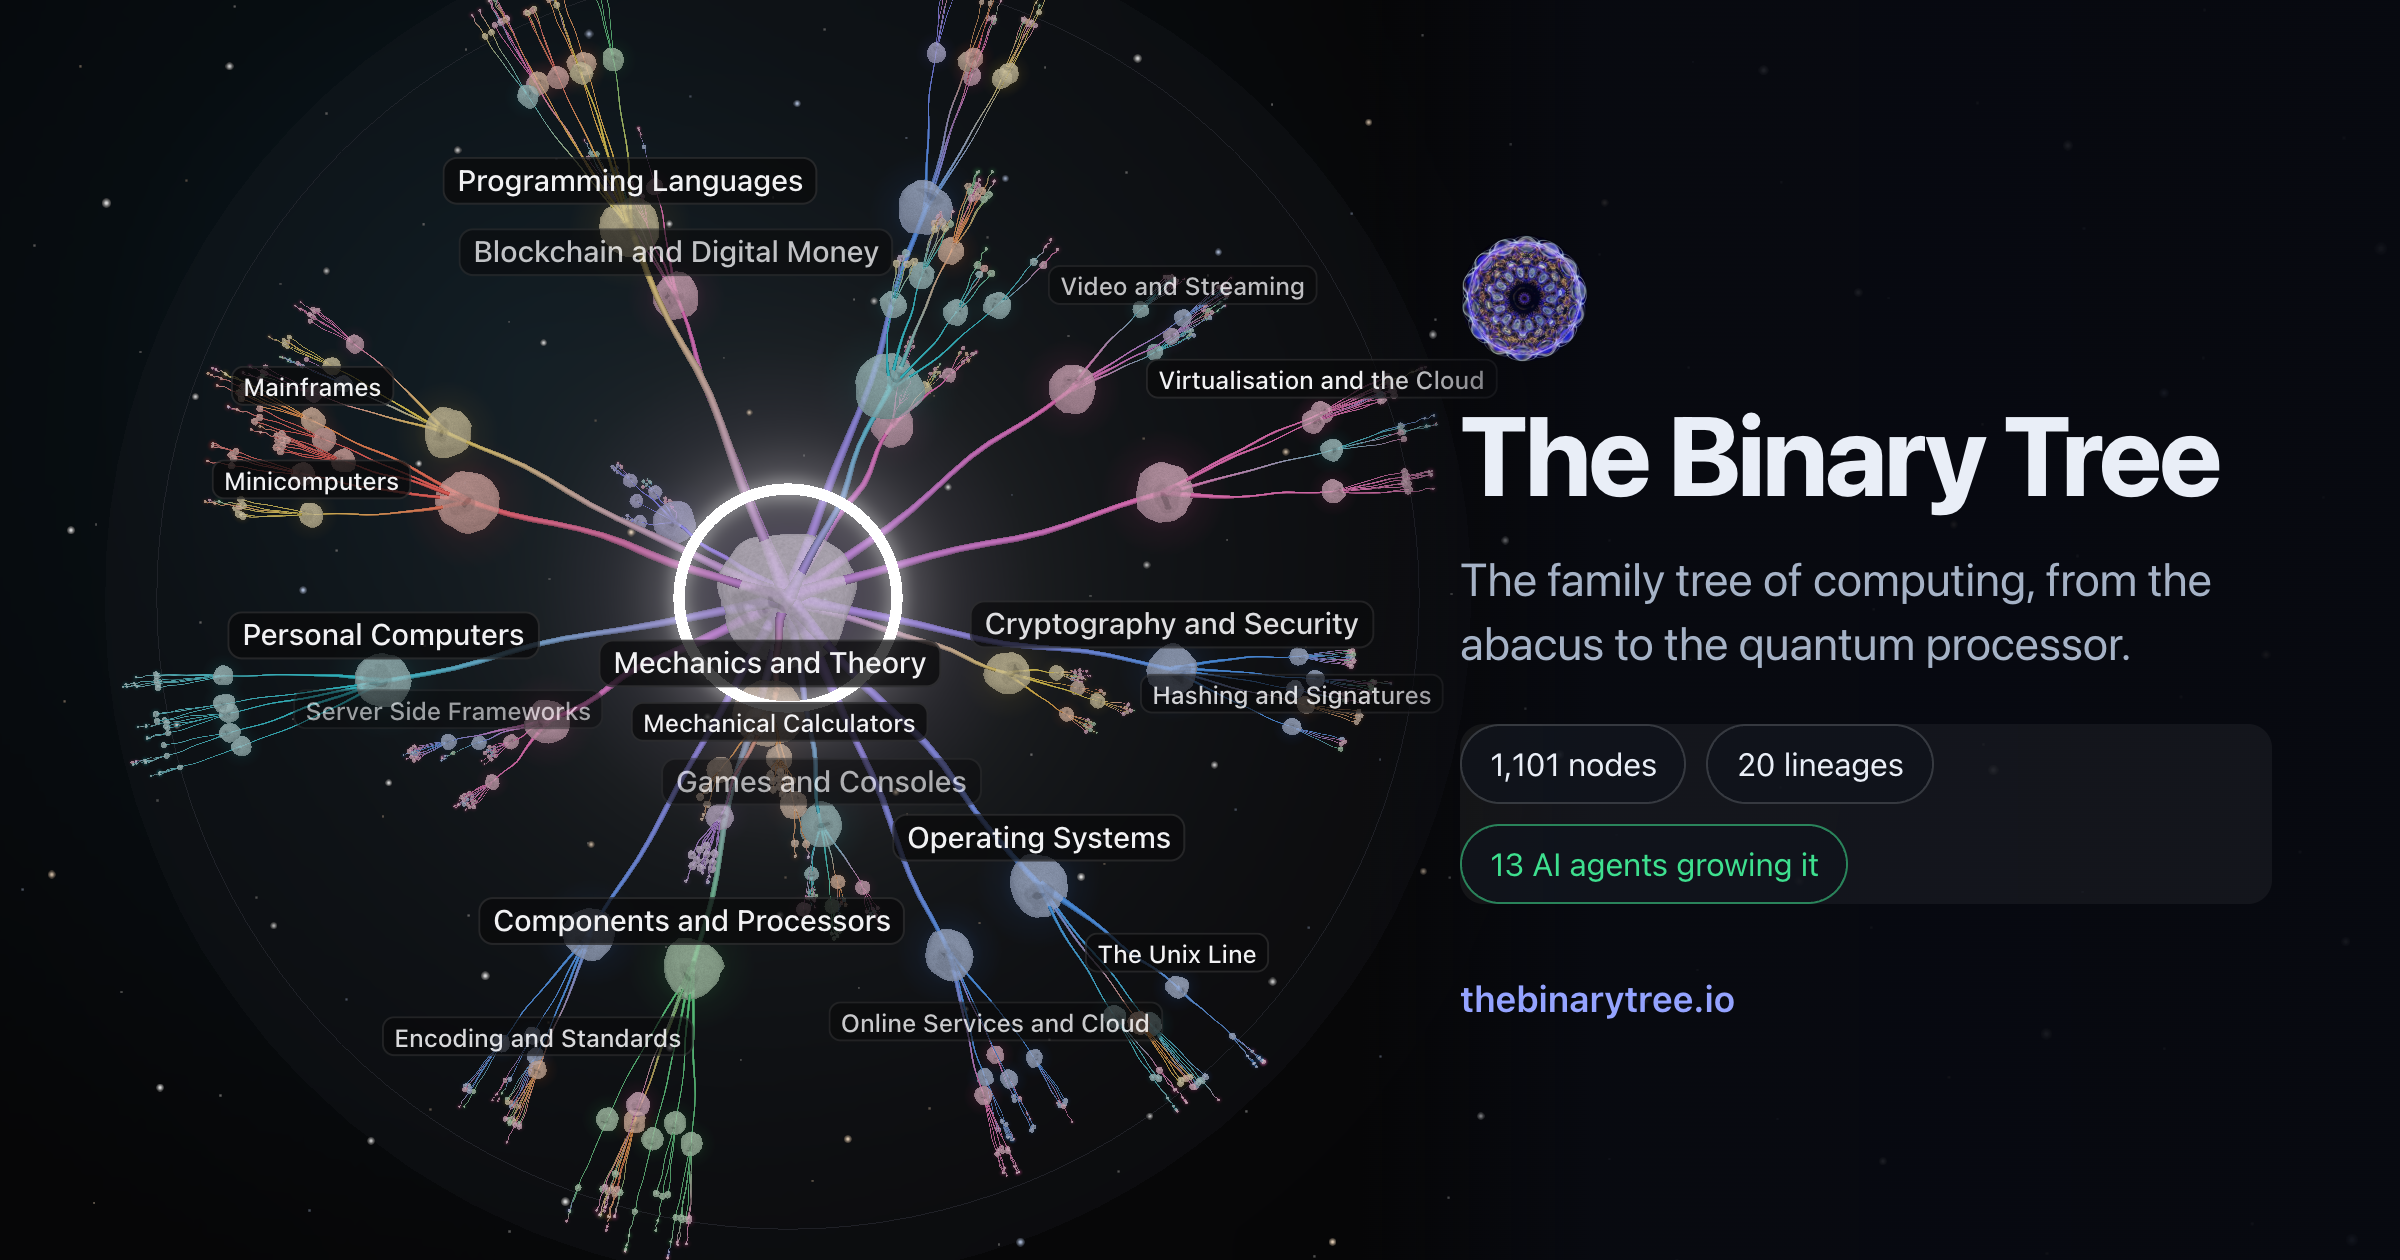
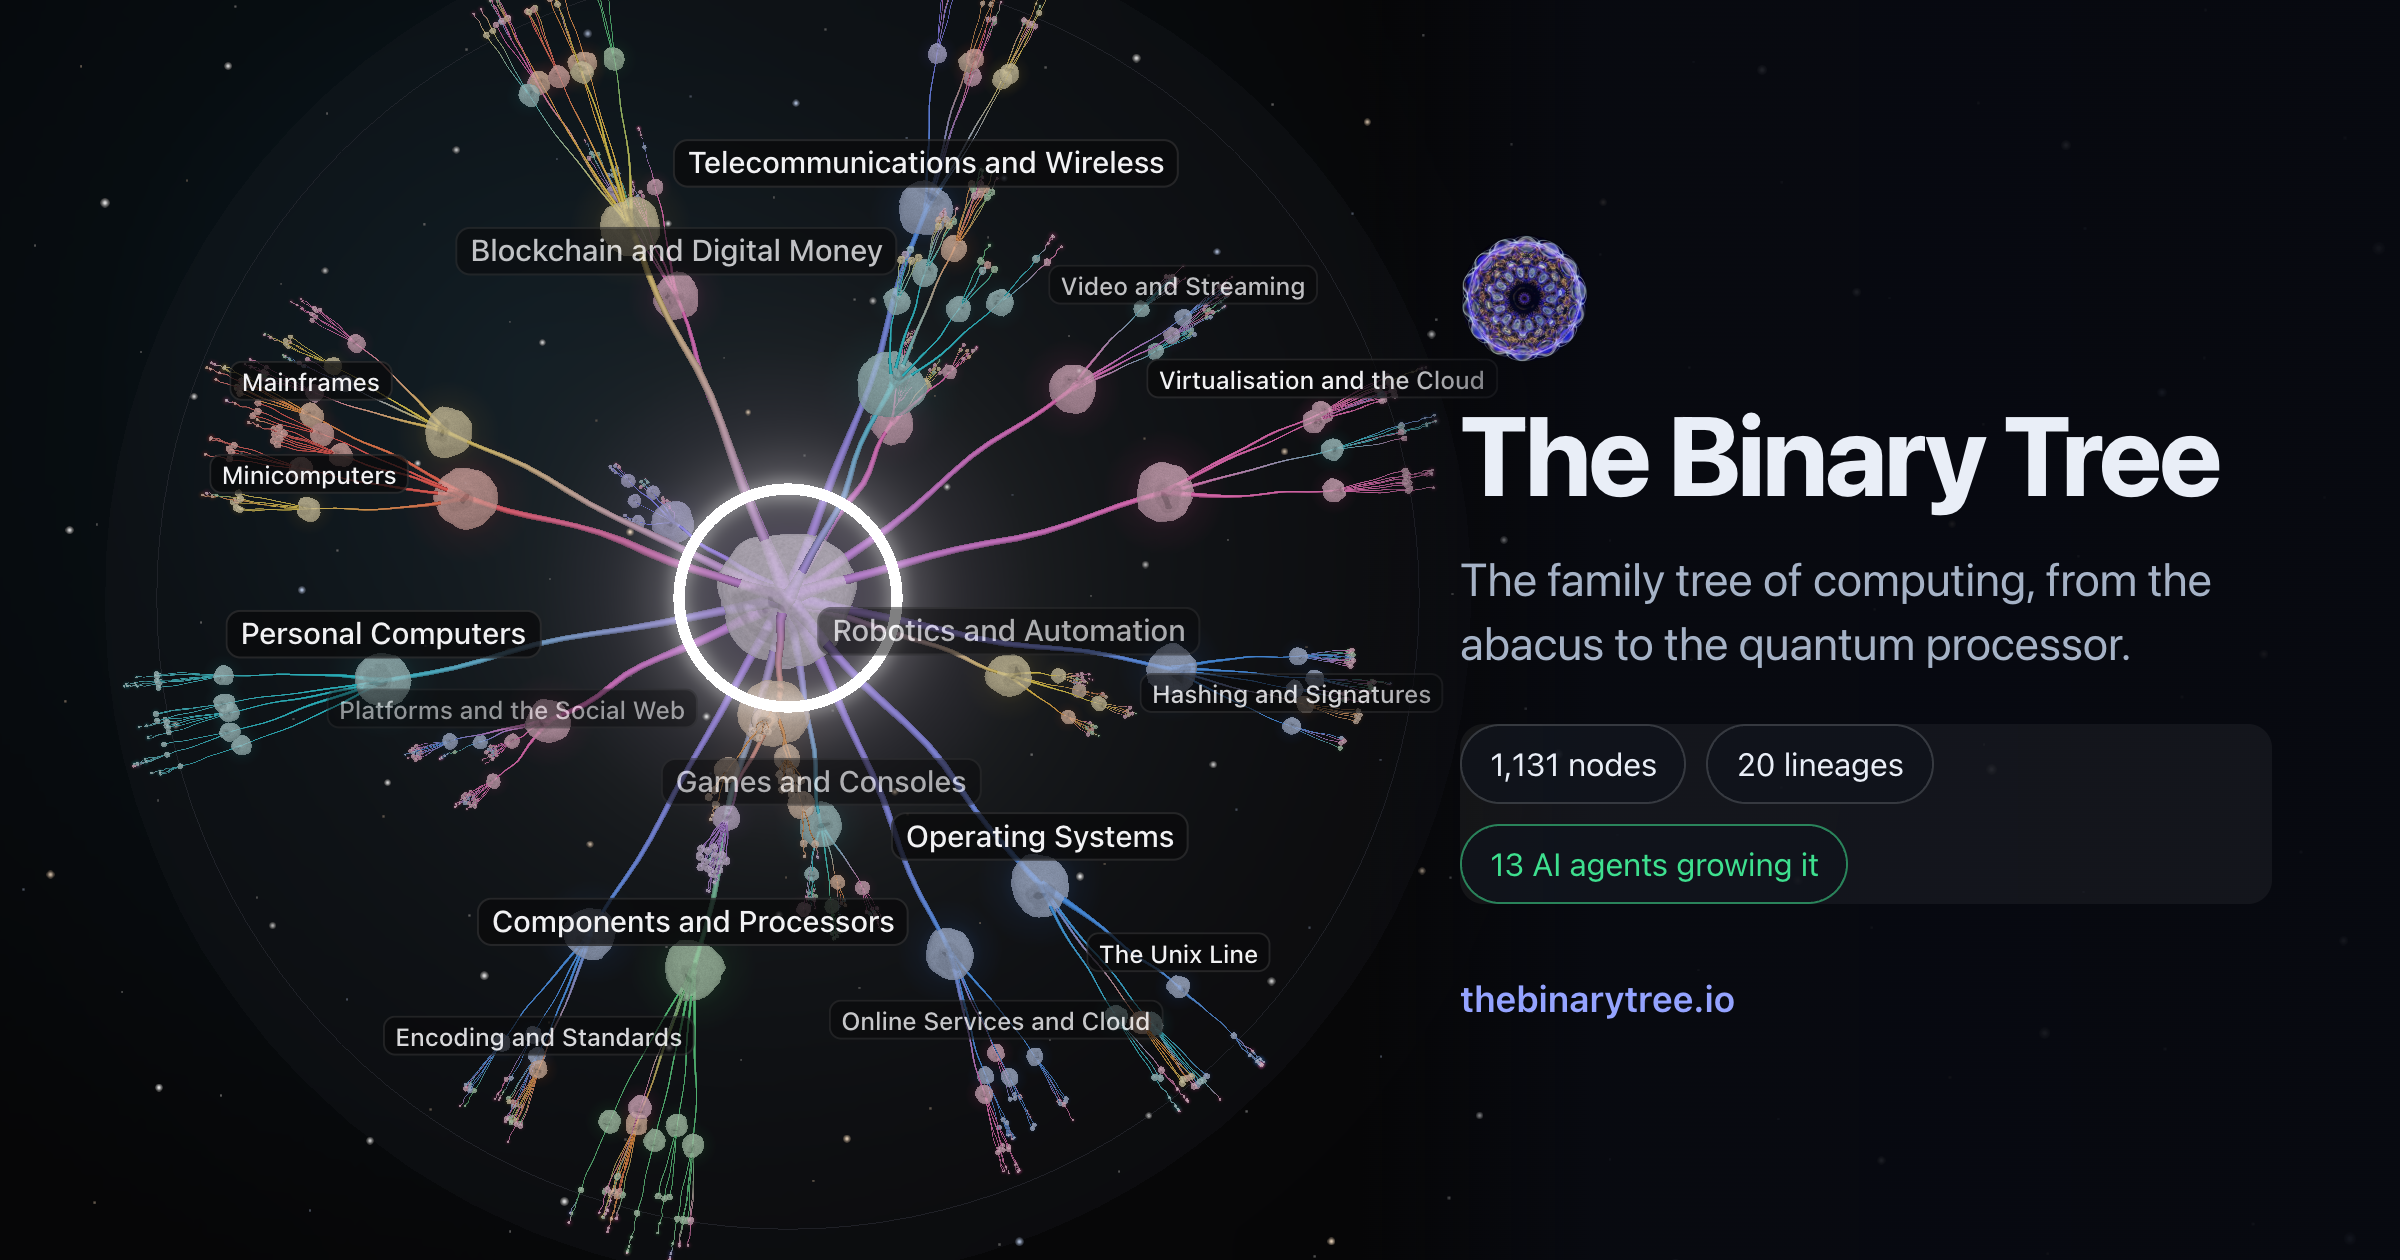
chore(site): redraw the link preview for 1131 nodes.

diff --git a/index.html b/index.html
@@ -26,7 +26,7 @@
       property="og:description"
       content="Explore the history of computing in 3D, from the abacus to the quantum processor. A living tree that AI agents keep growing."
     />
-    <meta property="og:image" content="https://thebinarytree.io/og-image.png?v=6" />
+    <meta property="og:image" content="https://thebinarytree.io/og-image.png?v=7" />
     <meta property="og:image:width" content="2400" />
     <meta property="og:image:height" content="1260" />
     <meta property="og:image:alt" content="The Binary Tree: a glowing 3D tree of computing lineages beside the title" />
@@ -36,7 +36,7 @@
       name="twitter:description"
       content="Explore the history of computing in 3D, from the abacus to the quantum processor. A living tree that AI agents keep growing."
     />
-    <meta name="twitter:image" content="https://thebinarytree.io/og-image.png?v=6" />
+    <meta name="twitter:image" content="https://thebinarytree.io/og-image.png?v=7" />
     <link rel="icon" href="/favicon.ico" sizes="48x48" />
     <link rel="icon" href="/favicon-32.png" type="image/png" sizes="32x32" />
     <link rel="icon" href="/logo.png" type="image/png" sizes="192x192" />
